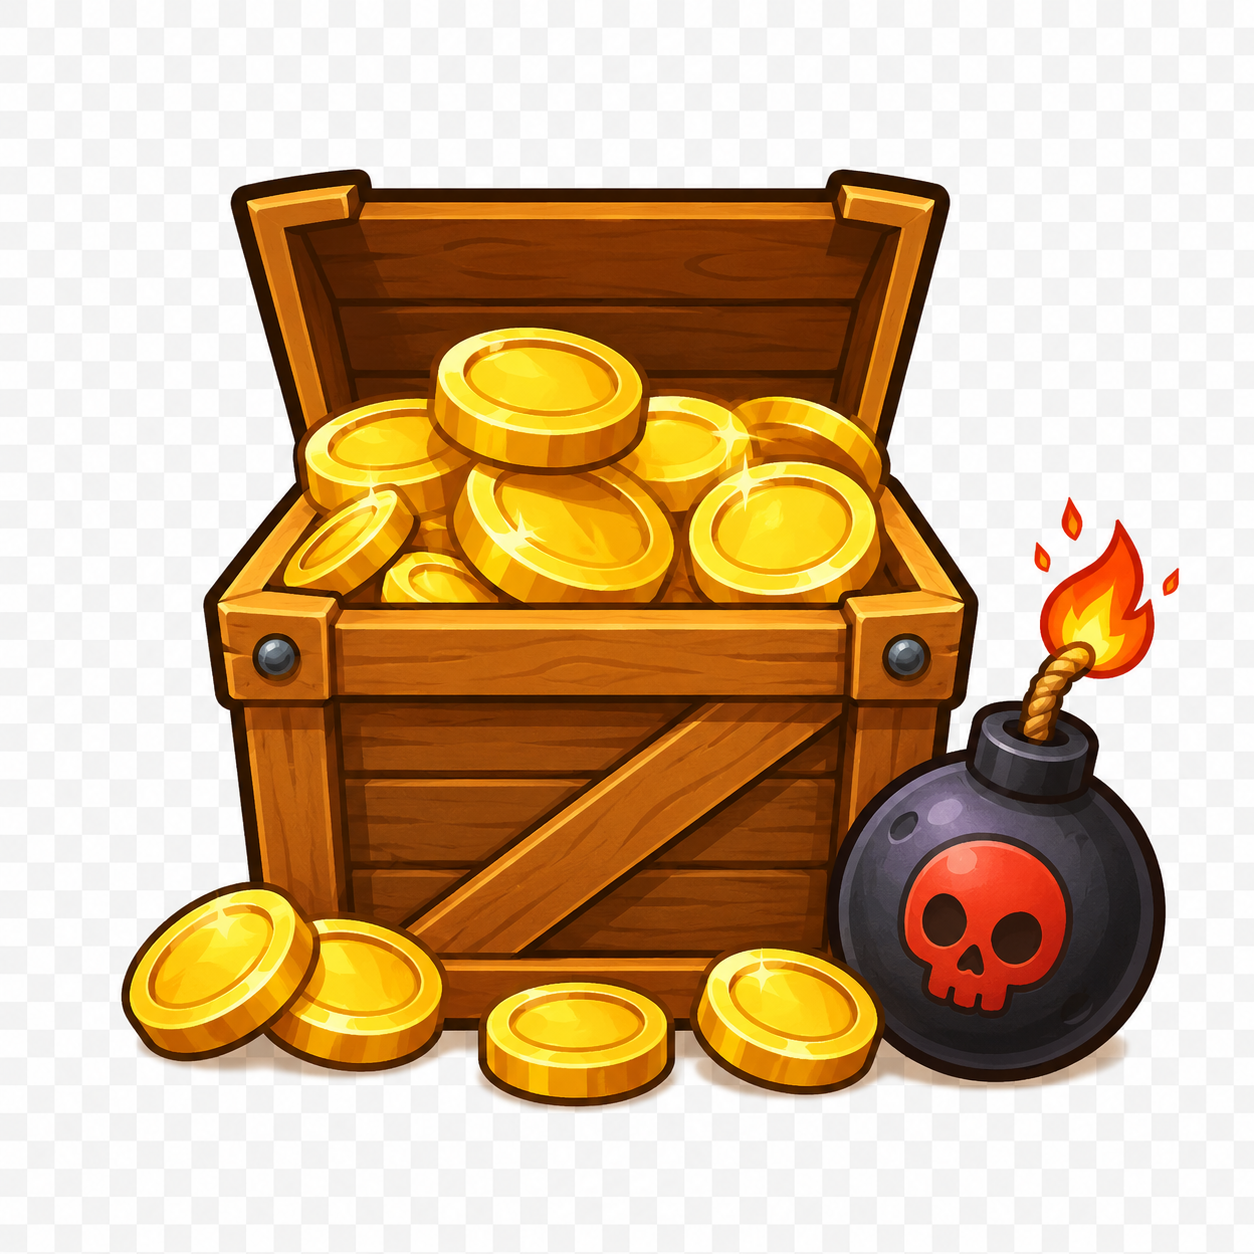
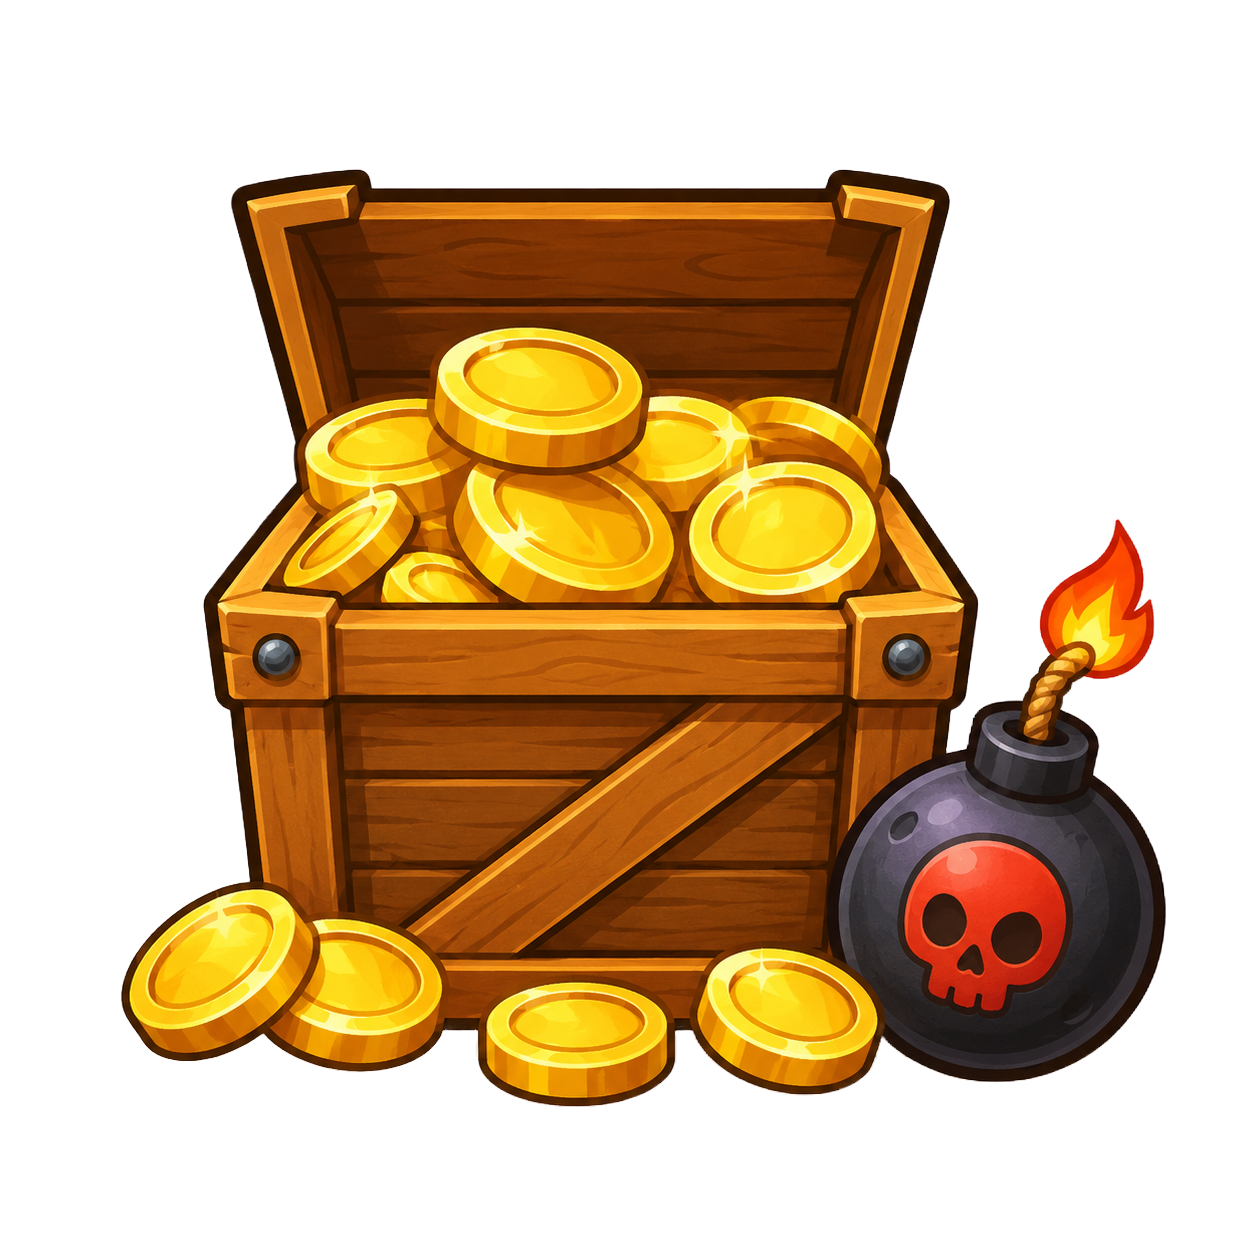
fix arcade layout

diff --git a/frontend/src/pages/ArcadePage.css b/frontend/src/pages/ArcadePage.css
@@ -1,94 +1,89 @@
 .arcade-page .page-background__content {
   min-height: 100vh;
-  display: flex;
-  justify-content: center;
-  padding: 1.5rem 1rem 6rem;
+  position: relative;
   box-sizing: border-box;
+  padding-bottom: 5.5rem;
 }
 
-.arcade-page__inner {
-  width: 100%;
-  max-width: 360px;
-  display: flex;
-  flex-direction: column;
-  align-items: stretch;
-  gap: 1rem;
-  margin-top: 8vh;
-}
-
-.arcade-page__title {
-  margin: 0;
-  text-align: center;
-  font-size: 1.35rem;
-  color: #fff8e1;
-  text-shadow: 0 2px 4px rgba(0, 0, 0, 0.5);
-}
-
-.arcade-games {
+.arcade-slots {
   list-style: none;
   margin: 0;
   padding: 0;
+  position: absolute;
+  left: 50%;
+  top: 24%;
+  transform: translateX(-50%);
+  width: min(78vw, 300px);
+  height: 52%;
   display: flex;
   flex-direction: column;
-  gap: 1.25rem;
+  justify-content: space-between;
+  gap: 2%;
+  box-sizing: border-box;
 }
 
-.arcade-game-card {
-  width: 100%;
-  border: none;
-  border-radius: 16px;
-  padding: 1rem 1.25rem;
+.arcade-slots__item {
+  flex: 1;
+  min-height: 0;
   display: flex;
-  flex-direction: column;
-  align-items: center;
-  gap: 0.5rem;
+}
+
+.arcade-slot {
+  flex: 1;
+  width: 100%;
+  margin: 0;
+  padding: 6% 10%;
+  border: none;
+  background: transparent;
   cursor: pointer;
-  background: rgba(45, 32, 18, 0.75);
-  box-shadow: 0 4px 12px rgba(0, 0, 0, 0.35), inset 0 0 0 2px rgba(255, 215, 100, 0.35);
+  display: flex;
+  align-items: center;
+  justify-content: center;
   position: relative;
 }
 
-.arcade-game-card:active:not(:disabled) {
-  transform: scale(0.98);
+.arcade-slot:active:not(:disabled) {
+  transform: scale(0.97);
 }
 
-.arcade-game-card--soon {
-  opacity: 0.85;
+.arcade-slot--soon {
+  opacity: 0.92;
 }
 
-.arcade-game-card__icon {
-  width: 88px;
-  height: 88px;
+.arcade-slot__icon {
+  max-width: 100%;
+  max-height: 100%;
+  width: auto;
+  height: auto;
   object-fit: contain;
+  pointer-events: none;
 }
 
-.arcade-game-card__title {
-  font-size: 1.1rem;
-  font-weight: 700;
-  color: #fff8e1;
-}
-
-.arcade-game-card__badge {
+.arcade-slot__badge {
   position: absolute;
-  top: 8px;
-  right: 10px;
-  font-size: 0.7rem;
+  top: 4%;
+  right: 6%;
+  font-size: 0.65rem;
   font-weight: 700;
   text-transform: uppercase;
   letter-spacing: 0.04em;
-  padding: 0.2rem 0.45rem;
-  border-radius: 8px;
-  background: rgba(120, 80, 20, 0.9);
+  padding: 0.15rem 0.4rem;
+  border-radius: 6px;
+  background: rgba(80, 50, 10, 0.85);
   color: #fde68a;
+  pointer-events: none;
 }
 
 .arcade-back-btn {
-  margin-top: 0.5rem;
-  padding: 0.65rem 1rem;
+  position: absolute;
+  left: 50%;
+  bottom: 5.5rem;
+  transform: translateX(-50%);
+  padding: 0.5rem 1rem;
   border: none;
-  border-radius: 12px;
-  background: rgba(0, 0, 0, 0.45);
+  border-radius: 10px;
+  background: rgba(0, 0, 0, 0.35);
   color: #fff8e1;
-  font-size: 1rem;
+  font-size: 0.95rem;
   cursor: pointer;
 }

diff --git a/frontend/src/pages/ArcadePage.jsx b/frontend/src/pages/ArcadePage.jsx
@@ -28,27 +28,24 @@ export default function ArcadePage() {
 
   return (
     <PageBackground image={BACKGROUNDS.arcade} className="arcade-page" overlay={false}>
-      <div className="arcade-page__inner">
-        <h1 className="arcade-page__title">Выберите игру</h1>
-        <ul className="arcade-games">
-          {ARCADE_GAMES.map((game) => (
-            <li key={game.id}>
-              <button
-                type="button"
-                className={"arcade-game-card" + (game.soon ? " arcade-game-card--soon" : "")}
-                onClick={() => onGameClick(game)}
-              >
-                <img className="arcade-game-card__icon" src={game.icon} alt="" />
-                <span className="arcade-game-card__title">{game.title}</span>
-                {game.soon ? <span className="arcade-game-card__badge">Скоро</span> : null}
-              </button>
-            </li>
-          ))}
-        </ul>
-        <button type="button" className="arcade-back-btn" onClick={() => navigate("/")}>
-          Назад
-        </button>
-      </div>
+      <ul className="arcade-slots" aria-label="Выбор игры">
+        {ARCADE_GAMES.map((game) => (
+          <li key={game.id} className="arcade-slots__item">
+            <button
+              type="button"
+              className={"arcade-slot" + (game.soon ? " arcade-slot--soon" : "")}
+              onClick={() => onGameClick(game)}
+              aria-label={game.title}
+            >
+              <img className="arcade-slot__icon" src={game.icon} alt="" />
+              {game.soon ? <span className="arcade-slot__badge">Скоро</span> : null}
+            </button>
+          </li>
+        ))}
+      </ul>
+      <button type="button" className="arcade-back-btn" onClick={() => navigate("/")}>
+        Назад
+      </button>
     </PageBackground>
   );
 }

diff --git a/frontend/src/components/Header.jsx b/frontend/src/components/Header.jsx
@@ -3,32 +3,33 @@ import "./Header.css"
 
 
 function Header({ header_info, title = "Home"}) {
+  const info = header_info[title] ?? header_info.Home;
   return (
     <>
         <header>
-        {header_info[title].type == 1 ? (
+        {info.type == 1 ? (
           <img src="img/header/header_background.png" alt="header background image" />
         ):(
           <img src="img/header/header_background_empty.png" alt="header background image" />
         )}
           
 
-          {header_info[title].type == 1 ? (
+          {info.type == 1 ? (
             <div className="header_container">
               <div className="header_edges">
-                <p>{header_info[title].left.value}</p>
+                <p>{info.left.value}</p>
               </div>
               <div className="header_middle">
-                <h3>{header_info[title].middle.header}</h3>
-                <p>{header_info[title].middle.score}</p>
+                <h3>{info.middle.header}</h3>
+                <p>{info.middle.score}</p>
               </div>
               <div className="header_edges">
-                <p>{header_info[title].right.value}</p>
+                <p>{info.right.value}</p>
               </div>
             </div>
           ) : (
             <div className="header_container">
-              <h2>{header_info[title].header}</h2>
+              <h2>{info.header}</h2>
             </div>
             
           ) }

diff --git a/frontend/src/pages/MinesPage.jsx b/frontend/src/pages/MinesPage.jsx
@@ -215,7 +215,7 @@ function MinesPage({ header_info, apiFetch, user, refreshUser, nextLifeIn }) {
 
   return (
     <PageBackground image={BACKGROUNDS.mines} className="mines-page" blur>
-      <Header header_info={header_info} title="Сокровища" />
+      <Header header_info={header_info} title="Home" />
       <div className="space-for-header" />
 
       <div className="mines-ui">

diff --git a/frontend/src/pages/GamePage.jsx b/frontend/src/pages/GamePage.jsx
@@ -164,7 +164,7 @@ function GamePage({ header_info, apiFetch, user, refreshUser, nextLifeIn }) {
 
   return (
     <PageBackground image={BACKGROUNDS.game} className="home_main_page" blur>
-      <Header header_info={header_info} title="Крот" />
+      <Header header_info={header_info} title="Home" />
       <div className="space-for-header" />
 
       <div className="game-ui">

diff --git a/frontend/src/assets/backgrounds.js b/frontend/src/assets/backgrounds.js
@@ -1,6 +1,6 @@
 // Пути к фоновым картинкам.
 // После замены файлов увеличьте CACHE_VERSION и выполните: npm run build
-const CACHE_VERSION = "10";
+const CACHE_VERSION = "11";
 
 function bg(path) {
   return `${path}?v=${CACHE_VERSION}`;

diff --git a/frontend/src/assets/arcadeGames.js b/frontend/src/assets/arcadeGames.js
@@ -1,4 +1,4 @@
-const CACHE_VERSION = "1";
+const CACHE_VERSION = "2";
 
 function icon(path) {
   return `${path}?v=${CACHE_VERSION}`;
